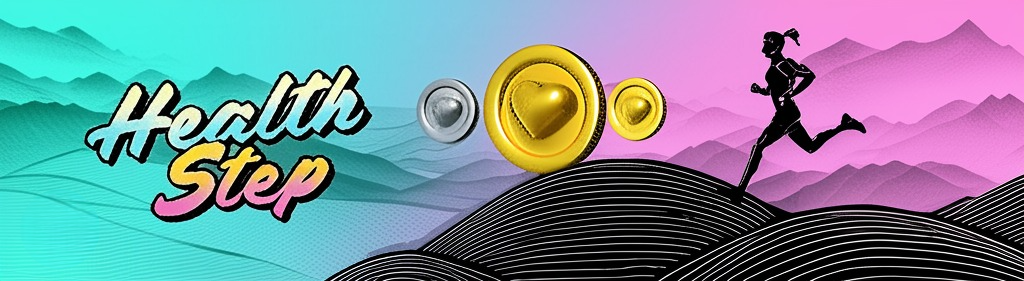
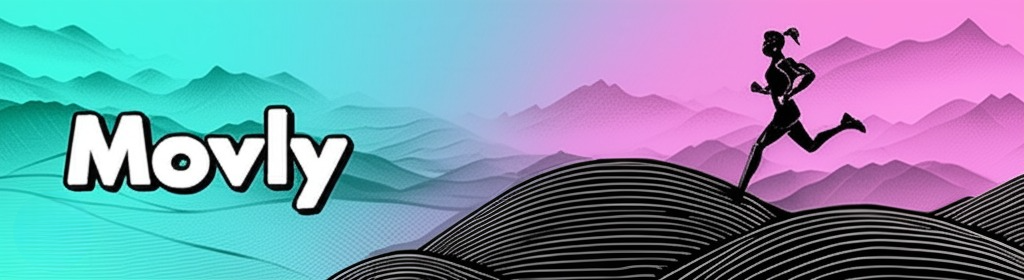
m

diff --git a/src/pages/home/sections/Tokens.jsx b/src/pages/home/sections/Tokens.jsx
@@ -4,11 +4,8 @@ import React, { useState, useEffect } from 'react';
 import HalvingPopup from '../../../components/HalvingPopup';
 import { FaExclamationCircle } from 'react-icons/fa';
 import bg from '@assets/images/map4.jpeg';
-import silverIcon from '@assets/tokens/silver1.jpg';
-import goldIcon from '@assets/tokens/gold1.jpg';
-
-// import silverIcon from '@assets/tokens/silver.png';
-// import goldIcon from '@assets/tokens/gold.png';
+import silverIcon from '@assets/tokens/silver.jpeg';
+import goldIcon from '@assets/tokens/gold.jpeg';
 
 export default function Tokens() {
   const [showHalvingPopup, setShowHalvingPopup] = useState(false);
@@ -26,12 +23,12 @@ export default function Tokens() {
 
   const tokens = [
     {
-      symbol: 'HST',
+      symbol: 'MVS',
       icon: silverIcon,
-      name: 'Health Step Token',
-      description: 'The governance token of the HealthStep ecosystem. Total supply is limited to 100,000,000 HST.',
+      name: 'Movly Silver',
+      description: 'The governance token of the HealthStep ecosystem. Total supply is limited to 3,000,000,000 MVS.',
       features: [
-        'Fixed max supply: 100M tokens',
+        'Fixed max supply: 3B tokens',
         'Stake to earn rewards',
         'Vote on project proposals',
         'NFT purchase benefits',
@@ -39,12 +36,12 @@ export default function Tokens() {
       ]
     },
     {
-      symbol: 'HSE',
+      symbol: 'MOVLY',
       icon: goldIcon,
-      name: 'Health Step Earn',
-      description: 'Revolutionary move-to-earn token with unique halving mechanism. Total supply is limited to 2,000,000,000 HSE through automatic rate adjustment.',
+      name: 'Movly Gold',
+      description: 'Revolutionary move-to-earn token with unique halving mechanism. Total supply is limited to 6,900,000,000 MOVLY through automatic rate adjustment.',
       features: [
-        'Fixed max supply: 2B tokens',
+        'Fixed max supply: 6.9B tokens',
         'Unique halving mechanism:',
         ' Rate halves at each milestone (50%)',
         ' Milestone: 50% of remaining earned',
@@ -81,7 +78,7 @@ export default function Tokens() {
 
                 <div className="token-description-wrapper">
                   <p className="token-description">{token.description}</p>
-                  {token.symbol === 'HSE' && (
+                  {token.symbol === 'MOVLY' && (
                     <FaExclamationCircle
                       className="info-icon"
                       onClick={() => setShowHalvingPopup(true)}
@@ -95,7 +92,7 @@ export default function Tokens() {
                   <ul>
                     {token.features.map((feature, index) => {
                       const isHighlight = [
-                        'Fixed max supply: 2B tokens',
+                        'Fixed max supply: 6.9B tokens',
                         'Unique halving mechanism:',
                         'Anti-inflation features:'
                       ].includes(feature);
@@ -146,7 +143,7 @@ export default function Tokens() {
 
                 <div className="token-description-wrapper">
                   <p className="token-description">{token.description}</p>
-                  {token.symbol === 'HSE' && (
+                  {token.symbol === 'MOVLY' && (
                     <FaExclamationCircle
                       className="info-icon"
                       onClick={() => setShowHalvingPopup(true)}
@@ -160,7 +157,7 @@ export default function Tokens() {
                   <ul>
                     {token.features.map((feature, index) => {
                       const isHighlight = [
-                        'Fixed max supply: 2B tokens',
+                        'Fixed max supply: 6.9B tokens',
                         'Unique halving mechanism:',
                         'Anti-inflation features:'
                       ].includes(feature);

diff --git a/src/pages/calculator/index.jsx b/src/pages/calculator/index.jsx
@@ -1,7 +1,7 @@
 import React, { useState, useEffect, useRef } from 'react';
 import styles from './Calculator.module.css';
 import posterCal from '@assets/images/posterCal.jpeg';
-import goldCoin from '@assets/tokens/gold1.jpg';
+import goldCoin from '@assets/tokens/gold.jpeg';
 import s3 from '@assets/images/s3.jpg';
 
 const Calculator = () => {
@@ -22,8 +22,8 @@ const Calculator = () => {
   });
 
   const [earnings, setEarnings] = useState({
-    hsePerMin: 0,
-    hsePerSession: 0,
+    movlyPerMin: 0,
+    movlyPerSession: 0,
     sessionTime: 0
   });
 
@@ -114,7 +114,7 @@ const Calculator = () => {
     }
   };
 
-  const calculateHSE = () => {
+  const calculateMOVLY = () => {
     // Base rate
     const baseRate = 0.35;
 
@@ -132,16 +132,16 @@ const Calculator = () => {
     const haloBonus = 1 + calculateEnhancementBonus(sneaker.halo.level);
     const enhancementMultiplier = wingsBonus * haloBonus;
 
-    // Calculate HSE per minute
-    const hsePerMin = baseRate * qualityMultiplier * powerBonus * levelMultiplier * enhancementMultiplier;
+    // Calculate MOVLY per minute
+    const movlyPerMin = baseRate * qualityMultiplier * powerBonus * levelMultiplier * enhancementMultiplier;
 
     // Calculate session details
     const sessionTime = sneaker.mana * 10; // 10 minutes per mana
-    const hsePerSession = hsePerMin * sessionTime;
+    const movlyPerSession = movlyPerMin * sessionTime;
 
     setEarnings({
-      hsePerMin: parseFloat(hsePerMin.toFixed(2)),
-      hsePerSession: parseFloat(hsePerSession.toFixed(2)),
+      movlyPerMin: parseFloat(movlyPerMin.toFixed(2)),
+      movlyPerSession: parseFloat(movlyPerSession.toFixed(2)),
       sessionTime
     });
   };
@@ -156,7 +156,7 @@ const Calculator = () => {
   };
 
   useEffect(() => {
-    calculateHSE();
+    calculateMOVLY();
   }, [sneaker]);
 
   useEffect(() => {
@@ -326,7 +326,12 @@ const Calculator = () => {
 
   return (
     <div className={styles.calc_container}>
-      <h1 className={styles.calc_title}>HSE Earn Calculator</h1>
+      <div className={styles.calc_header}>
+        <img src={s3} alt="Header" />
+        <div className={styles.calc_headerOverlay}></div>
+      </div>
+
+      <h1 className={styles.calc_title}>MOVLY Earn Calculator</h1>
 
       <div className={styles.calc_poster}>
         <img src={posterCal} alt="Health Step Calculator Poster" />
@@ -592,13 +597,13 @@ const Calculator = () => {
                 Halving count: <span className={styles.calc_halvingCount}>0</span> <span className={styles.calc_halvingRate}>(Rate: 100%)</span>
               </p>
               <p>
-                HSE per minute: <span>{earnings.hsePerMin.toFixed(2)}</span>
+                MOVLY per minute: <span>{earnings.movlyPerMin.toFixed(2)}</span>
               </p>
               <p>
                 Running time: <span>{sneaker.mana * 5} minutes</span>
               </p>
               <p className={styles.calc_dailyIncome}>
-                DAILY INCOME: <span>{(earnings.hsePerMin * sneaker.mana * 5).toFixed(2)} <img src={goldCoin} alt="HSE" className={styles.calc_coinIcon} /></span>
+                DAILY INCOME: <span>{(earnings.movlyPerMin * sneaker.mana * 5).toFixed(2)} <img src={goldCoin} alt="MOVLY" className={styles.calc_coinIcon} /></span>
               </p>
             </div>
           </div>
@@ -608,7 +613,7 @@ const Calculator = () => {
       <div className={styles.calc_formula}>
         <h3>Earning Formula:</h3>
         <code>
-          HSE/min = 0.35 × Quality × (1 + Power×0.01) × (1 + Level×0.02) × [(1 + Wings) × (1 + Halo)] × HalvingRate
+          MOVLY = 0.35 × Quality × (1 + Power×0.01) × (1 + Level×0.02) × [(1 + Wings) × (1 + Halo)] × HalvingRate
         </code>
       </div>
 

diff --git a/src/pages/home/sections/Tokenomics.jsx b/src/pages/home/sections/Tokenomics.jsx
@@ -20,7 +20,7 @@ export default function Tokenomics() {
         <img src={bg} alt="background" />
         <div className="blur-overlay1" />
       </div>
-      <h2 className="tokenomics-title">HST Distribution</h2>
+      <h2 className="tokenomics-title">Movly Distribution</h2>
       <motion.div
         className="tokenomics-content"
         initial={{ opacity: 0, y: 20 }}
@@ -30,14 +30,14 @@ export default function Tokenomics() {
       >
 
         <div className="tokenomics-container">
-          <div className="chart-left">
+          {/* <div className="chart-left">
             <div className="chart-container-left">
               <img src={chart} alt="background" style={{ height: '100%', width: '100%', objectFit: 'contain' }} />
             </div>
-          </div>
+          </div> */}
           <div className="chart-right">
             <div className="chart-container-right">
-              <img src={chartDetail} alt="background" style={{ height: '100%', width: '100%', objectFit: 'contain' }} />
+              <img src={chartDetail} alt="background" style={{ height: '90%', width: '90%', objectFit: 'center' }} />
             </div>
           </div>
         </div>

diff --git a/src/pages/calculator/Calculator.module.css b/src/pages/calculator/Calculator.module.css
@@ -1,14 +1,14 @@
 .calc_container {
   max-width: 1200px;
   margin: 0 auto;
-  padding: 2rem 2rem 0;
+  padding: 0 2rem;
 }
 
 .calc_title {
-  font-size: 2.5rem;
+  font-size: 3rem;
   font-weight: bold;
   text-align: center;
-  margin-bottom: 1.5rem;
+  margin-bottom: 5rem;
   color: #1a1a1a;
   text-transform: uppercase;
   letter-spacing: 0.05em;
@@ -489,11 +489,12 @@
   .calc_container {
     padding: 1rem;
     padding-bottom: 0;
+    padding-top: 0;
   }
 
   .calc_title {
     font-size: 2rem;
-    margin-bottom: 1rem;
+    margin-bottom: 4rem;
   }
 
   .calc_poster {
@@ -767,4 +768,29 @@
   display: block;
   position: relative;
   z-index: 1;
+}
+
+.calc_header {
+  width: 100vw;
+  height: 200px;
+  margin-left: 50%;
+  transform: translateX(-50%);
+  position: relative;
+  overflow: hidden;
+}
+
+.calc_header img {
+  width: 100%;
+  height: 100%;
+  object-fit: cover;
+}
+
+.calc_headerOverlay {
+  position: absolute;
+  top: 0;
+  left: 0;
+  right: 0;
+  bottom: 0;
+  background: linear-gradient(to top, rgba(255, 255, 255, 1) 0%, rgba(255, 255, 255, 0.8) 50%, rgba(255, 255, 255, 0) 100%);
+  pointer-events: none;
 }

diff --git a/src/components/Header.jsx b/src/components/Header.jsx
@@ -16,7 +16,7 @@ export default function Header() {
     <header className="header">
       <nav className="nav-container">
         <Link to="/" className="logo" onClick={() => setIsMenuOpen(false)}>
-          Health Step
+          Movly
         </Link>
 
         <button className="menu-button" onClick={toggleMenu}>
@@ -29,7 +29,7 @@ export default function Header() {
             className={location.pathname === '/' ? 'active' : ''}
             onClick={() => setIsMenuOpen(false)}
           >
-            Health Step
+            Movly
           </Link>
 
           <a

diff --git a/src/pages/sale/BuyToken.jsx b/src/pages/sale/BuyToken.jsx
@@ -6,7 +6,7 @@ import { FaEthereum, FaExclamationCircle } from 'react-icons/fa';
 import { SiTether } from 'react-icons/si';
 import { SiBinance } from 'react-icons/si';
 import bg from '@assets/images/mm5.jpg';
-import silverCoin from '@assets/tokens/silver1.jpg';
+import silverCoin from '@assets/tokens/silver.jpeg';
 import './BuyToken.css';
 import { toast } from 'react-hot-toast';
 

diff --git a/src/pages/home/sections/Tokenomics.css b/src/pages/home/sections/Tokenomics.css
@@ -66,13 +66,16 @@
 }
 
 .chart-container-right {
-  height: 100%;
+  height: 80%;
   min-height: 0;
+  display: flex;
+  align-items: center;
+  justify-content: center;
 }
 
 .chart-container-right img {
-  width: 100%;
-  height: 100%;
+  width: 80%;
+  height: 80%;
   object-fit: contain;
 }
 

diff --git a/src/pages/home/sections/Hero.jsx b/src/pages/home/sections/Hero.jsx
@@ -59,7 +59,7 @@ export default function Hero({ onScroll }) {
               }}
             >
               <motion.h1>
-                HEALTH STEP
+                Movly
               </motion.h1>
               <motion.p
                 className="hero-subtitle"
